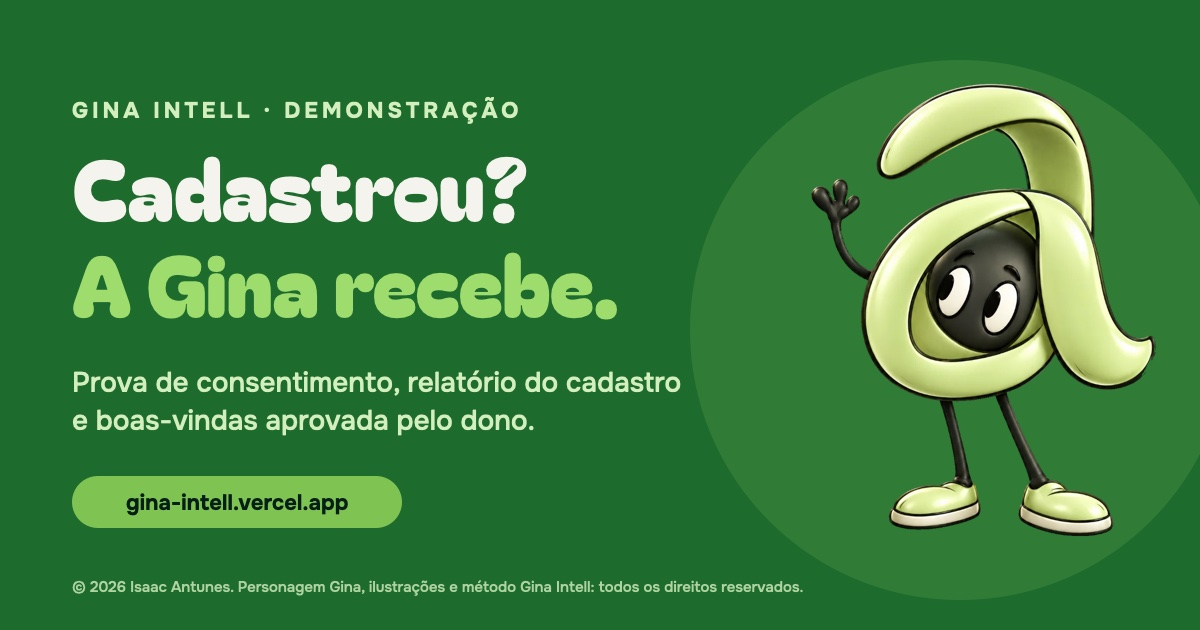
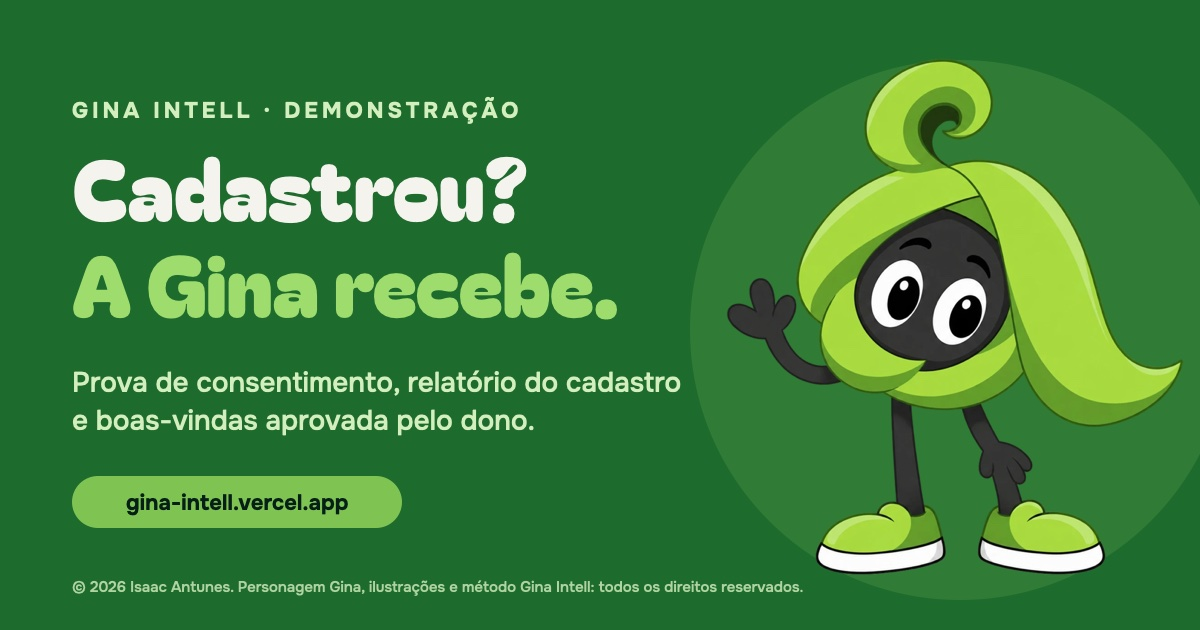
Vitrine: troca a Gina antiga pela Gina do Behance
Problema
- A vitrine usava a Gina 3D antiga (gina-3d.webp) e, no logo e nos
  cartões, a Gina desenhada em código do Lab. A Gina oficial hoje é a do
  case no Behance, com os quatro modos (Receber, Organizar, Conectar,
  Concluir). Desenho em código fere a regra de só usar os estilos oficiais.

O que mudou
- showcase-public/: poses oficiais gina-intake, gina-organize,
  gina-connect, gina-complete e gina-head, redimensionadas para o tamanho
  de exibição. Sai a gina-3d.webp.
- Jornada: a Gina acenando (Receber) na abertura; cada etapa mostra o
  modo da Gina, como no Behance.
- Contato: a Gina fazendo joinha (Concluir).
- Logo da vitrine e avatares da demo de ritmo usam gina-head; o Lab
  completo continua como estava.
- Imagem de prévia refeita com a Gina nova.

Como foi testado
- showcase.test atualizado com a lista exata de imagens permitidas.
- Navegador: 375px com logo, abertura e selos de modo.
- npm test: suíte de desafios ok, 45/45 locais; scan ok.

Changed region(s): [[0.5858, 0.0905, 0.9867, 0.9349]]

diff --git a/src/showcase/JourneyMap.tsx b/src/showcase/JourneyMap.tsx
@@ -3,31 +3,39 @@ import { ArrowRight } from 'lucide-react';
 
 export type DemoTab = 'welcome' | 'rhythm';
 
+/** Os quatro modos da Gina, os mesmos do case no Behance. */
+type Mode = 'intake' | 'organize' | 'connect';
+const MODE_LABEL: Record<Mode, string> = { intake: 'Receber', organize: 'Organizar', connect: 'Conectar' };
+
 interface Step {
   title: string;
   text: string;
   demo: DemoTab;
+  mode: Mode;
 }
 
 /** Jornada do lead no método Gina Intell, com os mesmos termos da página de consultoria. */
 const STEPS: Step[] = [
-  { title: 'Cadastro', text: 'Alguém se cadastra no site, no balcão ou pelo Instagram.', demo: 'welcome' },
+  { title: 'Cadastro', text: 'Alguém se cadastra no site, no balcão ou pelo Instagram.', demo: 'welcome', mode: 'intake' },
   {
     title: 'Prova de consentimento',
     text: 'Quando aceitou, qual texto e por qual canal. Sem prova, ninguém recebe nada.',
     demo: 'welcome',
+    mode: 'intake',
   },
   {
     title: 'Relatório do cadastro',
     text: 'Nome, WhatsApp, e-mail e cadastro repetido: o que falta, a Gina aponta.',
     demo: 'welcome',
+    mode: 'organize',
   },
-  { title: 'Boas-vindas', text: 'Rascunho no canal autorizado. Você aprova antes do envio.', demo: 'welcome' },
-  { title: 'Segunda compra', text: 'Quem comprou uma vez recebe um motivo para voltar.', demo: 'rhythm' },
+  { title: 'Boas-vindas', text: 'Rascunho no canal autorizado. Você aprova antes do envio.', demo: 'welcome', mode: 'connect' },
+  { title: 'Segunda compra', text: 'Quem comprou uma vez recebe um motivo para voltar.', demo: 'rhythm', mode: 'connect' },
   {
     title: 'Ritmo de compra',
     text: 'Em dia, atrasado (1,5×), dormente (3×) ou VIP, que só recebe contato pessoal.',
     demo: 'rhythm',
+    mode: 'organize',
   },
 ];
 
@@ -37,10 +45,10 @@ export const JourneyMap: React.FC<{ onOpenDemo: (tab: DemoTab) => void }> = ({ o
   <section className="bg-[#1E6B2E] text-[#f5f3ed] rounded-[24px] p-6 md:p-10 overflow-hidden" aria-labelledby="jornada-titulo">
     <div className="flex flex-col md:flex-row md:items-center gap-6 md:gap-10">
       <img
-        src="/gina-3d.webp"
-        alt="Gina, a mascote @ verde-limão, acenando"
-        width={720}
-        height={1080}
+        src="/gina-intake.png"
+        alt="Gina, a mascote verde-limão do método, acenando"
+        width={320}
+        height={360}
         fetchPriority="high"
         className="w-24 md:w-36 h-auto shrink-0 self-center md:self-auto drop-shadow-[0_12px_24px_rgba(6,31,22,0.35)]"
       />
@@ -66,7 +74,11 @@ export const JourneyMap: React.FC<{ onOpenDemo: (tab: DemoTab) => void }> = ({ o
             >
               {i + 1}
             </span>
-            <h2 className="font-bold text-base leading-tight">{step.title}</h2>
+            <h2 className="font-bold text-base leading-tight flex-1">{step.title}</h2>
+            <span className="inline-flex items-center gap-1 shrink-0 rounded-full bg-[#061f16]/25 pl-1 pr-2.5 py-0.5 text-[11px] font-bold text-[#d4efbe]">
+              <img src={`/gina-${step.mode}.png`} alt="" width={20} height={20} loading="lazy" className="w-5 h-5 object-contain" />
+              {MODE_LABEL[step.mode]}
+            </span>
           </div>
           <p className="text-[13px] text-[#d4efbe] leading-relaxed">{step.text}</p>
           <button

diff --git a/src/showcase/ShowcaseApp.tsx b/src/showcase/ShowcaseApp.tsx
@@ -1,5 +1,4 @@
 import React, { useRef, useState } from 'react';
-import { GinaCharacter } from '../components/GinaCharacter';
 import { SalesforceView } from '../components/SalesforceView';
 import { WelcomeView } from '../components/WelcomeView';
 import { ContactCta } from './ContactCta';
@@ -33,7 +32,7 @@ export default function ShowcaseApp() {
             aria-label="Gina Intell, voltar ao topo"
           >
             <div className="w-8 h-8 rounded-full bg-[#f5f3ed] border border-[#14502a]/15 flex items-center justify-center overflow-hidden shrink-0 shadow-xs">
-              <GinaCharacter mood="listening" size="mini" />
+              <img src="/gina-head.png" alt="" width={32} height={32} className="w-7 h-7 object-contain" />
             </div>
             <span className="font-['Bagel_Fat_One'] text-xl md:text-2xl text-[#1E6B2E] tracking-tight leading-none">
               Gina <span className="text-[#061f16] font-sans font-extrabold text-sm uppercase tracking-widest ml-1">Intell</span>

diff --git a/src/components/SalesforceView.tsx b/src/components/SalesforceView.tsx
@@ -345,7 +345,11 @@ export const SalesforceView: React.FC<{ demoOnly?: boolean }> = ({ demoOnly = fa
               >
                 <header className="flex items-start gap-3">
                   <div className="w-11 h-11 rounded-full bg-[#f5f3ed] border border-[#14502a]/10 flex items-center justify-center overflow-hidden shrink-0">
-                    <GinaCharacter mood={action.mood} size="mini" />
+                    {demoOnly ? (
+                      <img src="/gina-head.png" alt="" width={44} height={44} className="w-9 h-9 object-contain" />
+                    ) : (
+                      <GinaCharacter mood={action.mood} size="mini" />
+                    )}
                   </div>
                   <div className="min-w-0 flex-1">
                     <h2 className="font-bold text-[#061f16] flex items-center gap-1.5 truncate">

diff --git a/src/showcase/ContactCta.tsx b/src/showcase/ContactCta.tsx
@@ -7,6 +7,14 @@ const MAILTO = `mailto:${EMAIL}?subject=${encodeURIComponent('Quero ver a Gina n
 /** Chamada para contato ao fim da demonstração. Nenhum formulário: a vitrine não coleta dados. */
 export const ContactCta: React.FC = () => (
   <section className="bg-[#ffffff] rounded-[24px] p-6 md:p-10 shadow-xs border border-[#061f16]/8 flex flex-col lg:flex-row lg:items-center gap-6" aria-labelledby="contato-titulo">
+    <img
+      src="/gina-complete.png"
+      alt="Gina fazendo joinha"
+      width={320}
+      height={356}
+      loading="lazy"
+      className="w-20 md:w-28 h-auto shrink-0 self-center lg:self-auto"
+    />
     <div className="flex-1 space-y-2">
       <h2 id="contato-titulo" className="font-['Bagel_Fat_One'] text-2xl md:text-4xl text-[#1E6B2E] tracking-tight leading-tight">
         Quer ver isso na sua loja?

diff --git a/showcase.html b/showcase.html
@@ -12,7 +12,7 @@
     <meta property="og:image" content="https://gina-intell.vercel.app/og-gina.jpg" />
     <meta property="og:image:width" content="1200" />
     <meta property="og:image:height" content="630" />
-    <meta property="og:image:alt" content="A Gina, mascote @ verde-limão, acenando ao lado do título: Cadastrou? A Gina recebe." />
+    <meta property="og:image:alt" content="A Gina, mascote verde-limão do método Gina Intell, acenando ao lado do título: Cadastrou? A Gina recebe." />
     <meta name="twitter:card" content="summary_large_image" />
     <meta name="twitter:image" content="https://gina-intell.vercel.app/og-gina.jpg" />
     <meta name="copyright" content="© 2026 Isaac Antunes. Personagem Gina, ilustrações e método Gina Intell: todos os direitos reservados." />

diff --git a/vite.showcase.config.ts b/vite.showcase.config.ts
@@ -8,7 +8,7 @@ import { defineConfig } from 'vite';
  */
 export default defineConfig({
   plugins: [react(), tailwindcss()],
-  // Pasta pública só da vitrine (imagem de prévia e Gina 3D). Nunca public/, onde fica o ZIP.
+  // Pasta pública só da vitrine (imagem de prévia e poses da Gina). Nunca public/, onde fica o ZIP.
   publicDir: 'showcase-public',
   build: {
     outDir: 'dist-showcase',
